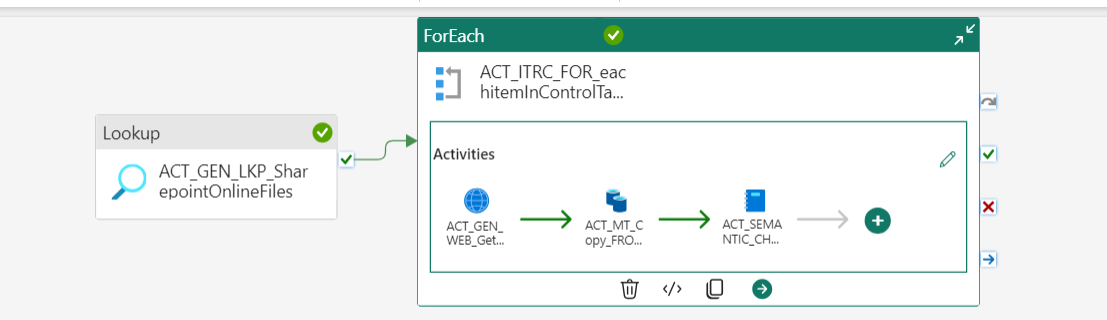
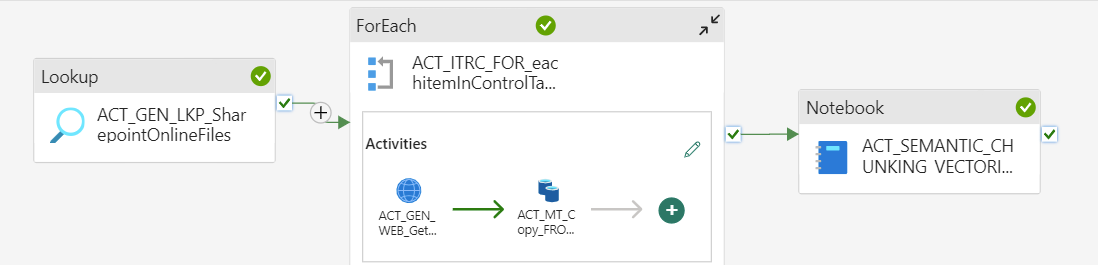
Refactored Pipeline to iterate and copy files from lakehouse

Changed region(s): [[0.0, 0.0, 1.0, 0.9962], [0.031, 0.2717, 0.0929, 0.3321]]

diff --git a/fabric-vectorization-pipeline/README.MD b/fabric-vectorization-pipeline/README.MD
@@ -43,7 +43,7 @@ Microsoft Fabric is an end-to-end analytics SAAS data platform designed for ente
 
 ![alt text](img/image-5.png)
 
-2. Upload notebook `fabric-vectorization-pipeline\Semantic_Chunking_Vectorization.ipynb`
+2. Upload notebook `fabric-vectorization-pipeline\Semantic_Chunking_Vectorization_V1.ipynb`
 
 3. The notebook requires Python 3.11 to run. Select` Runtime version 1.3 Public Preview` from `Workspace Settings > Data Engineering/Science > Spark Settings` and click on Save.
 
@@ -122,6 +122,34 @@ b. **ForEach Activity**: Create a ForEach Activity as below
 
 The activities in ForEach are described in ForEach Pipeline.
 
+c. **Notebook Activity**: Create Notebook activity as 
+
+- Enter name (ACT_SEMANTIC_CHUNKING_VECTORIZATION) and description as below.
+
+![alt text](img/image-25.png)
+
+- Set `Settings` as 
+
+```
+Set Workspace to Workspace Name previously created
+
+Set Notebook to Notebook (Semantic_Chunking_Vectorization_V1.ipynb) previously created 
+```
+
+Set Base Parameters as
+
+| Name | Type | Value|
+|----------|----------|----------|
+| _inlineInstallationEnabled | Bool  | True | 
+| AZURE_OPENAI_ENDPOINT | String  | URL endpoint for the Azure OpenAI Service  |
+| VECTOR_STORE_ADDRESS | String  | URL endpoint for the Azure AI Search Service   |
+| EMBEDDING_MODEL  | String  | Embedding Model Deployment Name |
+| OPENAI_API_VERSION | String  | 2023-12-01-preview  |
+| INDEX_NAME   | String  | Azure AI Search Index Name |
+| DOC_INTELLIGENCE_ENDPOINT | String  | URL endpoint for the Azure AI Document Intelligent Service  |
+
+_inlineInstallationEnabled is set to True to enable inline pip installation in notebook
+
 4. ForEach Pipeline Activities
 
 a. **Web Activity**: Create Web Activity as below
@@ -199,34 +227,7 @@ Set File Format to `Binary`
 
 ![alt text](img/image-24.png)
 
-C. **Notebook Activity**: Create Notebook activity as 
 
-- Enter name (ACT_SEMANTIC_CHUNKING_VECTORIZATION) and description as below.
-
-![alt text](img/image-25.png)
-
-- Set `Settings` as 
-
-```
-Set Workspace to Workspace Name previously created
-
-Set Notebook to Notebook (Semantic_Chunking_Vectorization.ipynb) previously created 
-```
-
-Set Base Parameters as
-
-| Name | Type | Value|
-|----------|----------|----------|
-| _inlineInstallationEnabled | Bool  | True | 
-| file_name  | String  | @item().name  |
-| AZURE_OPENAI_ENDPOINT | String  | URL endpoint for the Azure OpenAI Service  |
-| VECTOR_STORE_ADDRESS | String  | URL endpoint for the Azure AI Search Service   |
-| EMBEDDING_MODEL  | String  | Embedding Model Deployment Name |
-| OPENAI_API_VERSION | String  | 2023-12-01-preview  |
-| INDEX_NAME   | String  | Azure AI Search Index Name |
-| DOC_INTELLIGENCE_ENDPOINT | String  | URL endpoint for the Azure AI Document Intelligent Service  |
-
-_inlineInstallationEnabled is set to True to enable inline pip installation in notebook
 
 
 ![alt text](img/image-26.png)
@@ -236,13 +237,20 @@ _inlineInstallationEnabled is set to True to enable inline pip installation in n
 
 - Run the Data Pipeline using `Run` command https://learn.microsoft.com/en-us/fabric/data-factory/pipeline-runs#on-demand-data-pipeline-run  or use `Schedule` command to schedule pipeline job https://learn.microsoft.com/en-us/fabric/data-factory/pipeline-runs#scheduled-data-pipeline-runs
 
-- Verify if pipeline has sucessfully run using Monitor tab
+- Verify if pipeline has sucessfully run using `Monitor` tab
 
 ![alt text](img/image-27.png)
 
-Verify if OneLake `raw` folder contains documents copied from sharepoint and `processed` folder contains chunks
+- Verify notebook output using Notebook snapshot
 
-Verify if AI Search Index is populated with text and vector contents of document chunks
+![alt text](img/image-28.png)
+
+- Verify chunks and search index
+    - Verify if OneLake `processed` folder contains documents copied from sharepoint 
+    - Verify if chunks folder with naming conventions `chunks_[File Name]_[Timestamp]` is created for each document. It should contain split files.
+    - Verify if AI Search Index is created populated with text and vector contents of document chunks using Azure Portal
+
+![alt text](img/image-29.png)
 
 # Reference Documentation 
 
@@ -263,5 +271,6 @@ Currently Fabric does not support feature for Export Data Pipeline to template f
 
 # Features Pending for Development
 -  Incremental copy of documents from Sharepoint to OneLake and incremental indexing in AI Search using Control Table in Fabric SQLDB for tracking new and updated documents (The current pipeline supports full load, so delete index and recreate index if new documents are added to sharepoint)
+- Parallel Processing of documents using PySpark https://learn-it-all.medium.com/parallelism-in-spark-notebook-execution-in-microsoft-fabric-8fb6ac3f79be
 - Current Authentication to AI services is key based, refactor code to use Managed Identities
 - Private Network Setup
